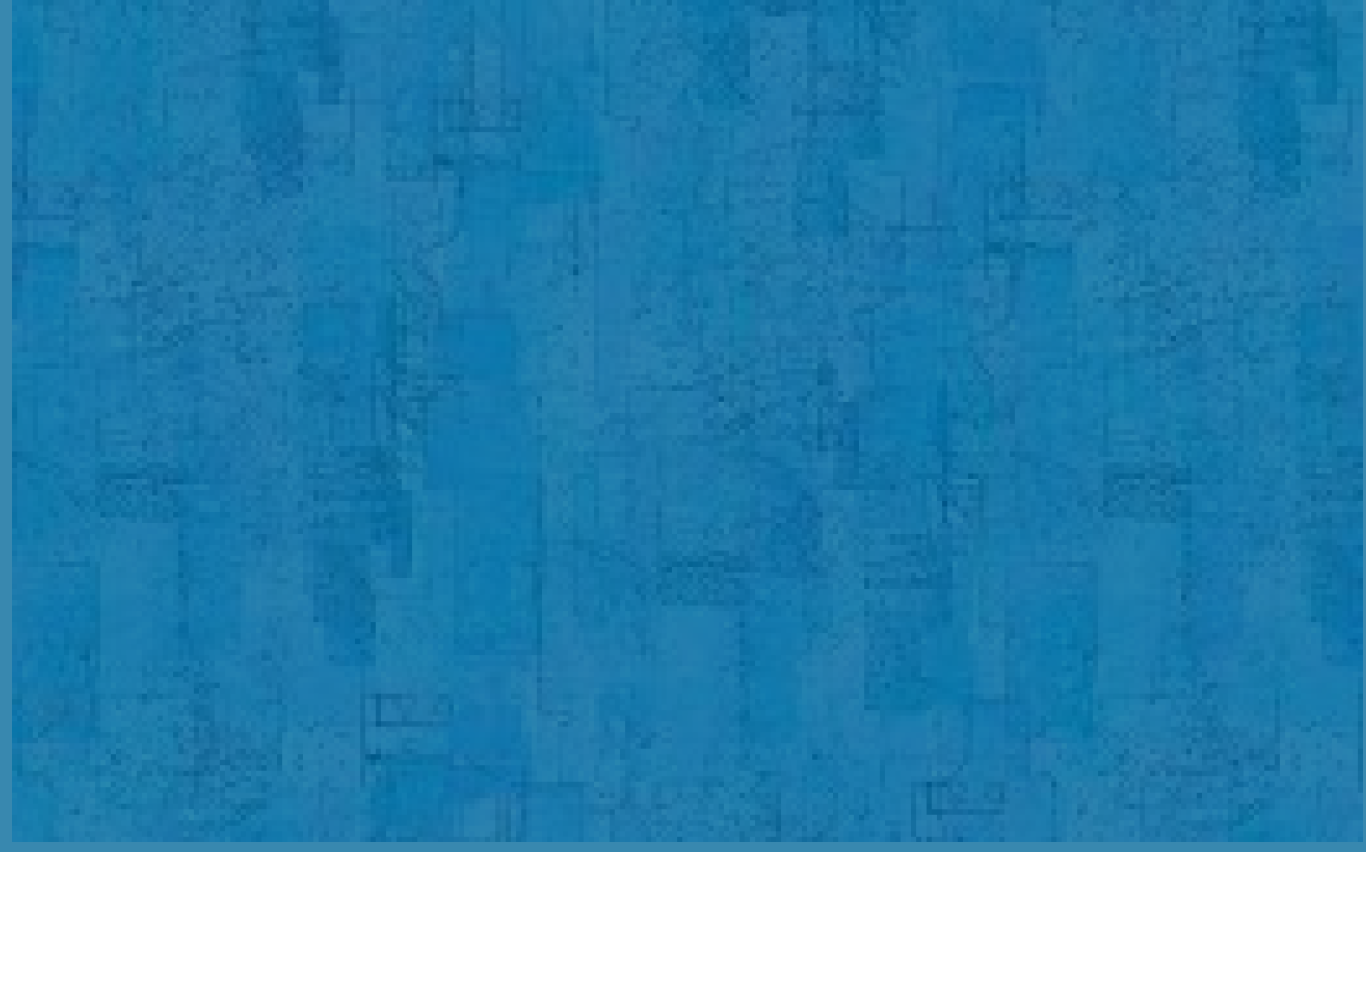
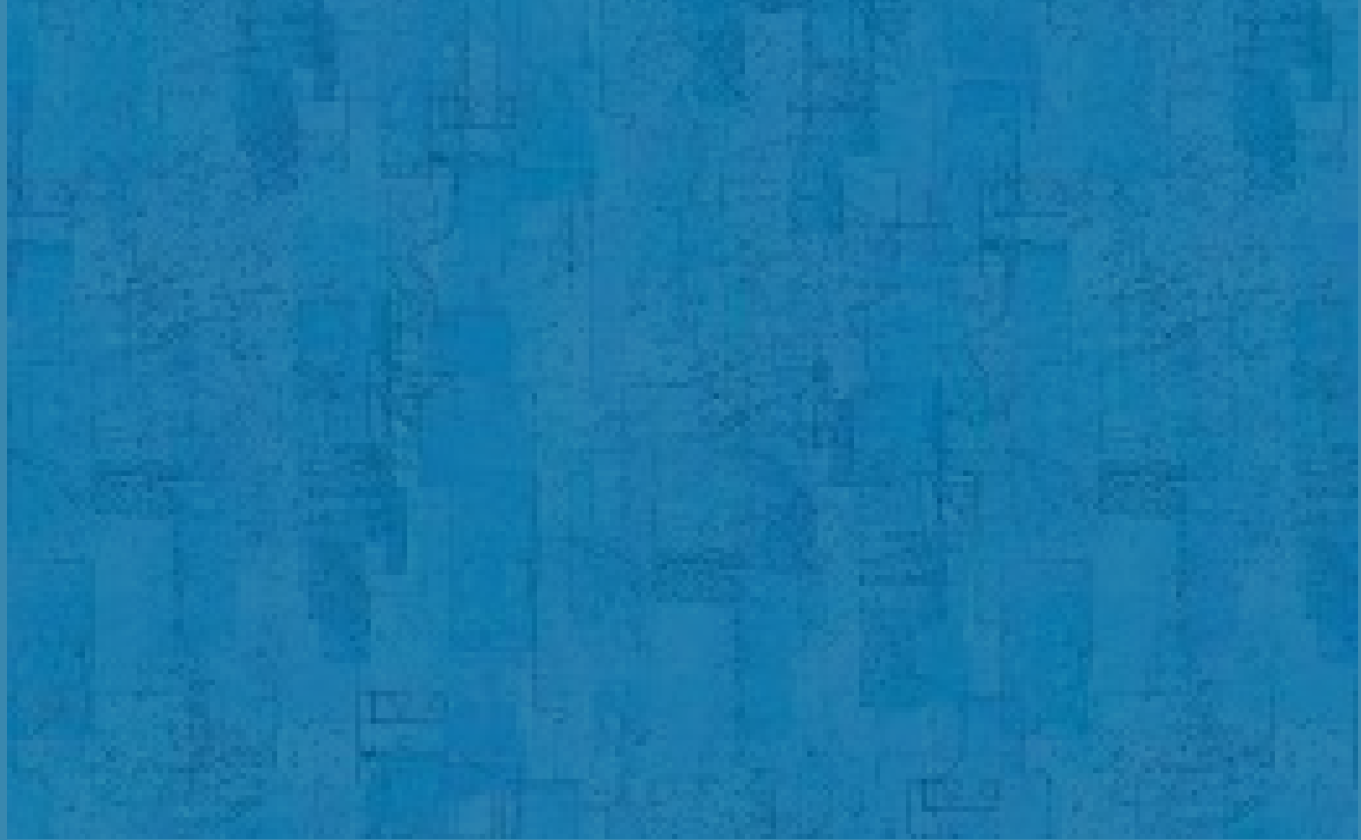
Adjust faces background on homepage

diff --git a/style.css b/style.css
@@ -468,7 +468,6 @@ body > div.container > main > section:nth-child(7) > div > a:hover {
 div.homepage_faces {
 	display: block;
 	background-image: url("images/background.png");
-	background-repeat: repeat;
 	padding: 5%;
 }
 div.homepage_faces h3 {
@@ -482,9 +481,10 @@ div.homepage_faces h3 {
 	text-align: center;
 }
 div.face_item {
+	display: block;
 	background-color: white;
 	width: 225px;
-    margin: 0 2%;
+    margin: 0 auto;
     overflow: hidden;
     height: 225px;
     border-radius: 50%;
@@ -723,10 +723,12 @@ footer {
 		margin-top: 15px;
 	}
 	div.homepage_faces {
+		display: block;
 		text-align: center;
 	}
 	div.face_item {
 	    display: inline-block;
+		margin: 1%;
 	}
 }
 
